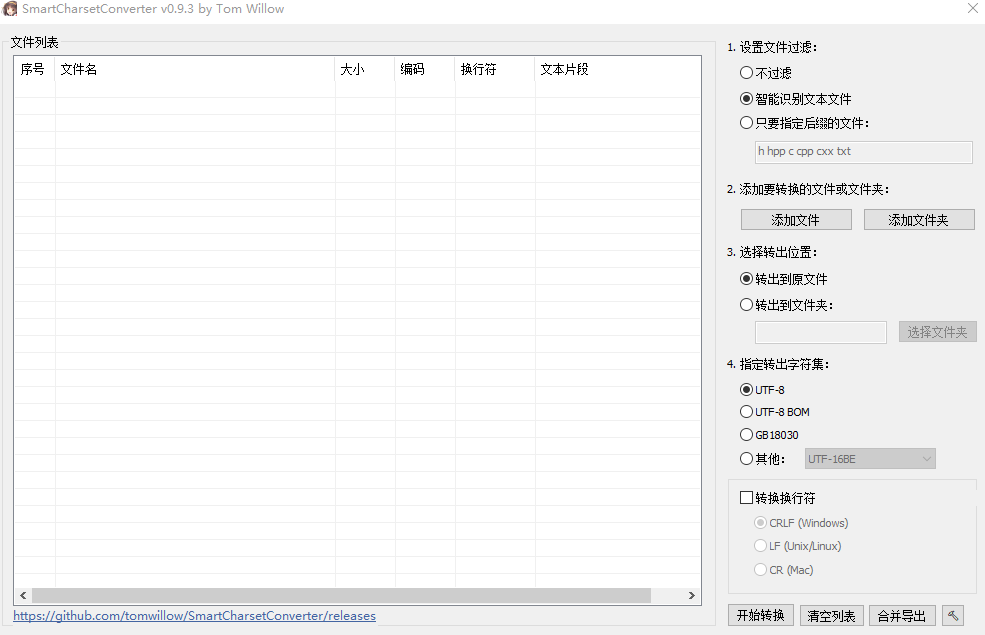
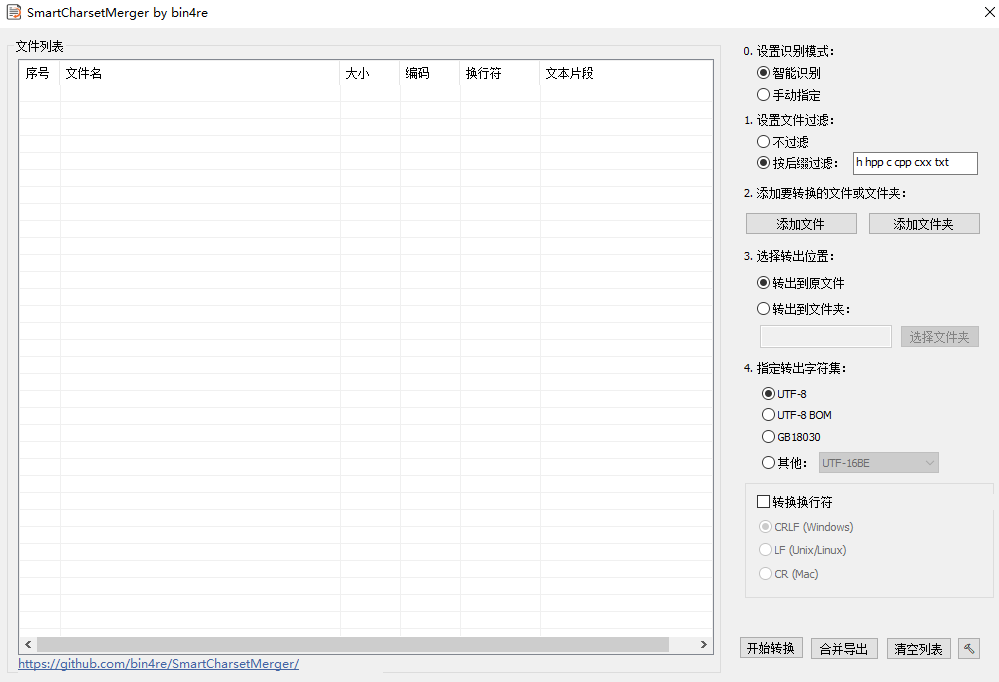
commit

diff --git a/_posts/2025-08-19-merge_export_code_files_with_different_encodings_in_project.md b/_posts/2025-08-19-merge_export_code_files_with_different_encodings_in_project.md
@@ -15,6 +15,11 @@ tags:
 * content
 {:toc}
 
+更新：20251218
+
+# 项目说明
+
+仓库地址：[https://github.com/bin4re/SmartCharsetMerger](https://github.com/bin4re/SmartCharsetMerger)
 
 有提取项目代码到同一个文本文件中再给 LLM 问答使用的场景，但碰到了项目有不同编码的文件导致提取内容部分乱码问题，为解决此问题二开了 [SmartCharsetConverter](https://github.com/tomwillow/SmartCharsetConverter)，原项目具体信息可前往主页查看。
 
@@ -25,30 +30,20 @@ tags:
 
 
 
-[https://github.com/bin4re/SmartCharsetMerger](https://github.com/bin4re/SmartCharsetMerger)
-# 功能说明
 
-在其基础上添加了“合并导出”的功能按钮，可将文件列表中的文件转换统一编码后，合并内容导出保存到一个文本文件中，使用文件相对文件夹的路径来分隔不同文件内容。
+# 功能特性
+
+我在原项目基础上：
+
+* 添加了“合并导出”的功能按钮，可将文件列表中的文件转换统一编码后，合并内容导出保存到一个文本文件中，使用文件相对文件夹的路径来分隔不同文件内容。
+* 解耦了设置文件过滤和智能识别模式的耦合。
+* 添加Ctrl+A或右键点击“全选”进行批量设置编码的功能。
+
+
 
 
 # 构建方法
 
-1. 进入 Developer Powershell for VS2022，配置系统代理。
+推荐配置系统代理打开Developer Powershell for VS2022，进入到项目目录，执行config_on_win.bat，会自动安装vcpkg中的依赖，并进行cmake配置，首次下载要等待一段时间。
 
-2. 没有 vcpkg 的话要先安装
-```
-git clone https://github.com/microsoft/vcpkg.git
-cd vcpkg
-.\bootstrap-vcpkg.bat
-```
-
-3. 设置 VCPKG_ROOT 环境变量，用自己的 vcpkg 目录
-```
-$env:VCPKG_ROOT="YOUR:\VCPKG\PATH"
-$env:PATH="$env:VCPKG_ROOT;$env:PATH"
-```
-
-进入到项目目录，执行 config_on_win.bat，会自动安装vcpkg中的依赖，并进行 cmake 配置，首次下载要等待一段时间。
-
-完毕后进入 build 目录打开 SmartCharsetConverter.sln，选择项目右击即可编译生成可执行程序。
-
+完毕后进入build目录打开SmartCharsetConverter.sln，选择SmartCharsetConverter项目右击“生成”。
